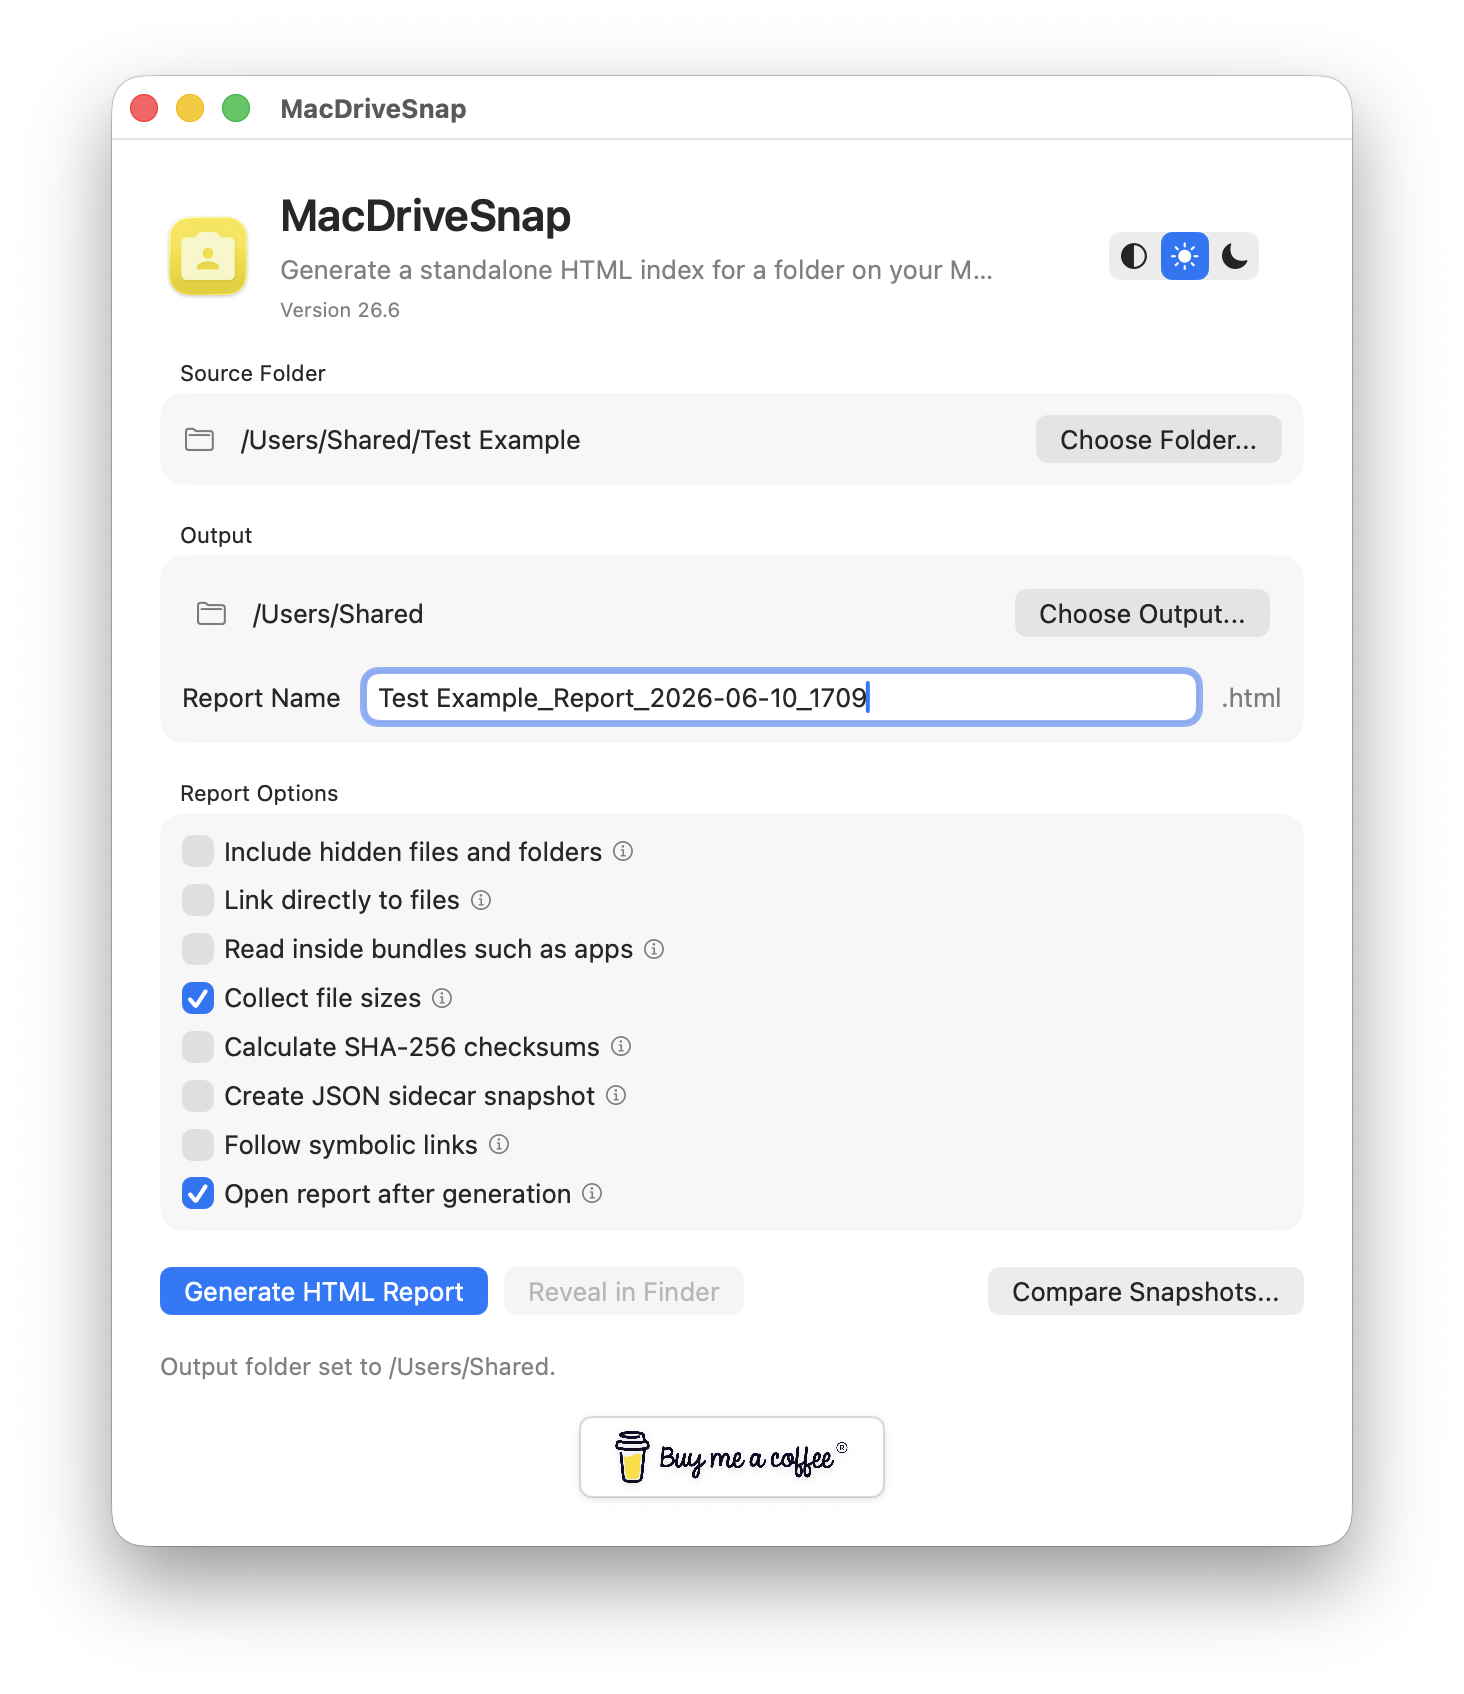
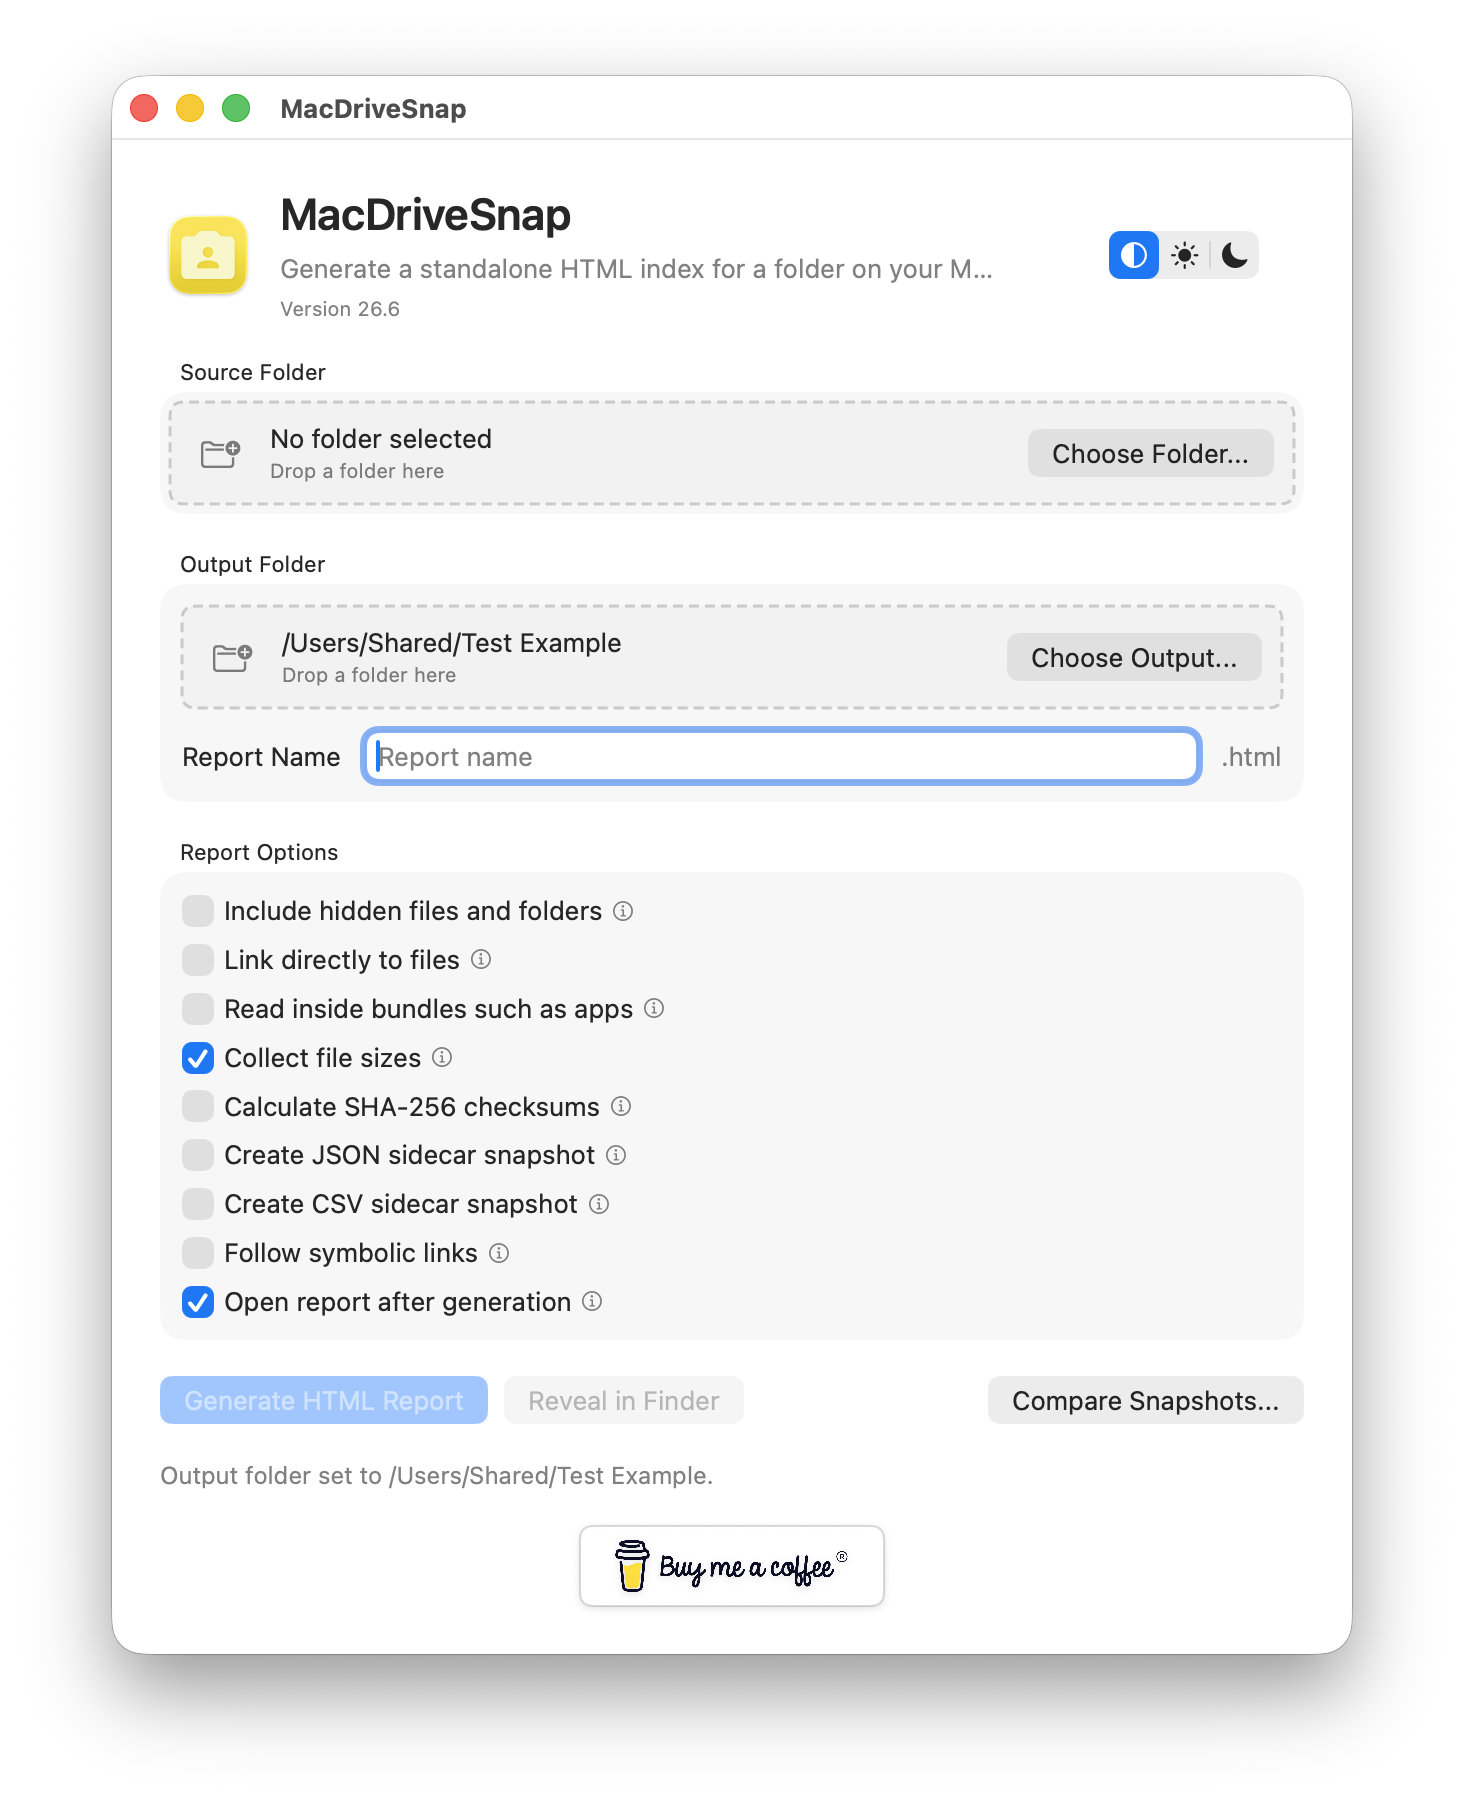
new screenshot

diff --git a/README.md b/README.md
@@ -16,9 +16,12 @@ Open `MacDriveSnap.dmg`, then drag `MacDriveSnap.app` to Applications.
 
 - Standalone searchable HTML reports
 - Finder-style folder navigation
+- Resizable folder-tree column in generated reports
 - Sorting by name, size, and modified date
 - Visual comparison of older and newer reports
-- Optional hidden files, direct links, bundle traversal, file sizes, SHA-256 checksums, and JSON export
+- Drag and drop source and output folders from Finder
+- Optional CSV and JSON sidecar exports
+- Optional hidden files, direct links, bundle traversal, file sizes, and SHA-256 checksums
 - Local processing with no file-list uploads
 
 ## Screenshots